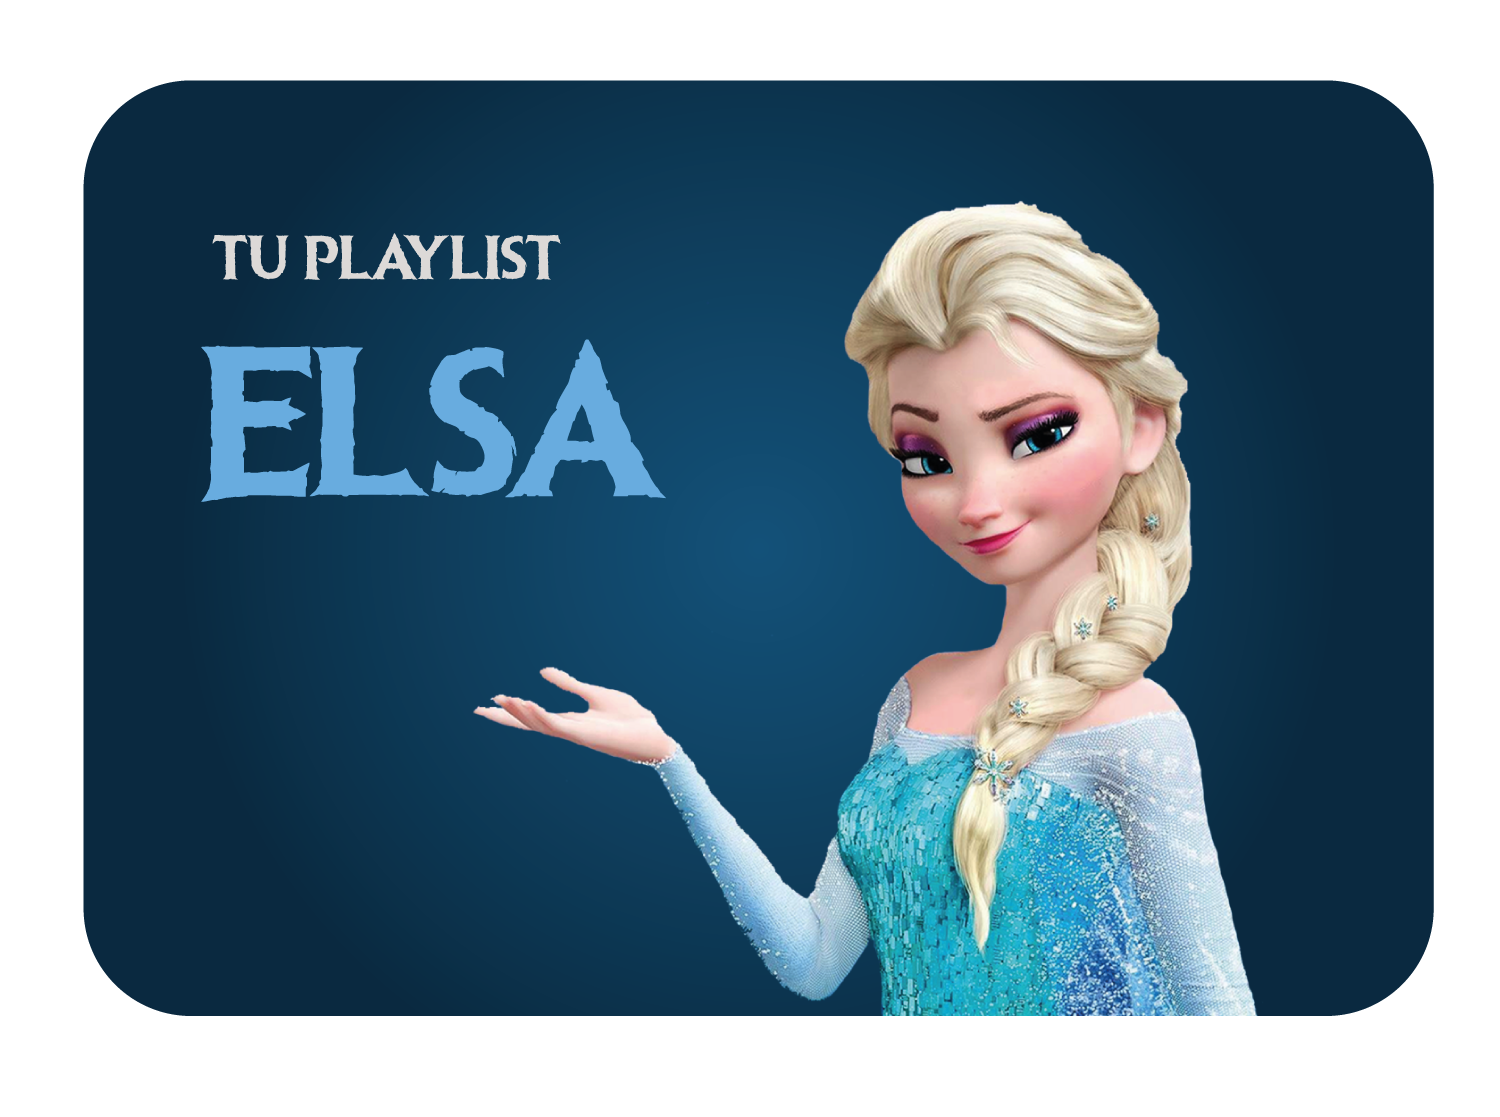
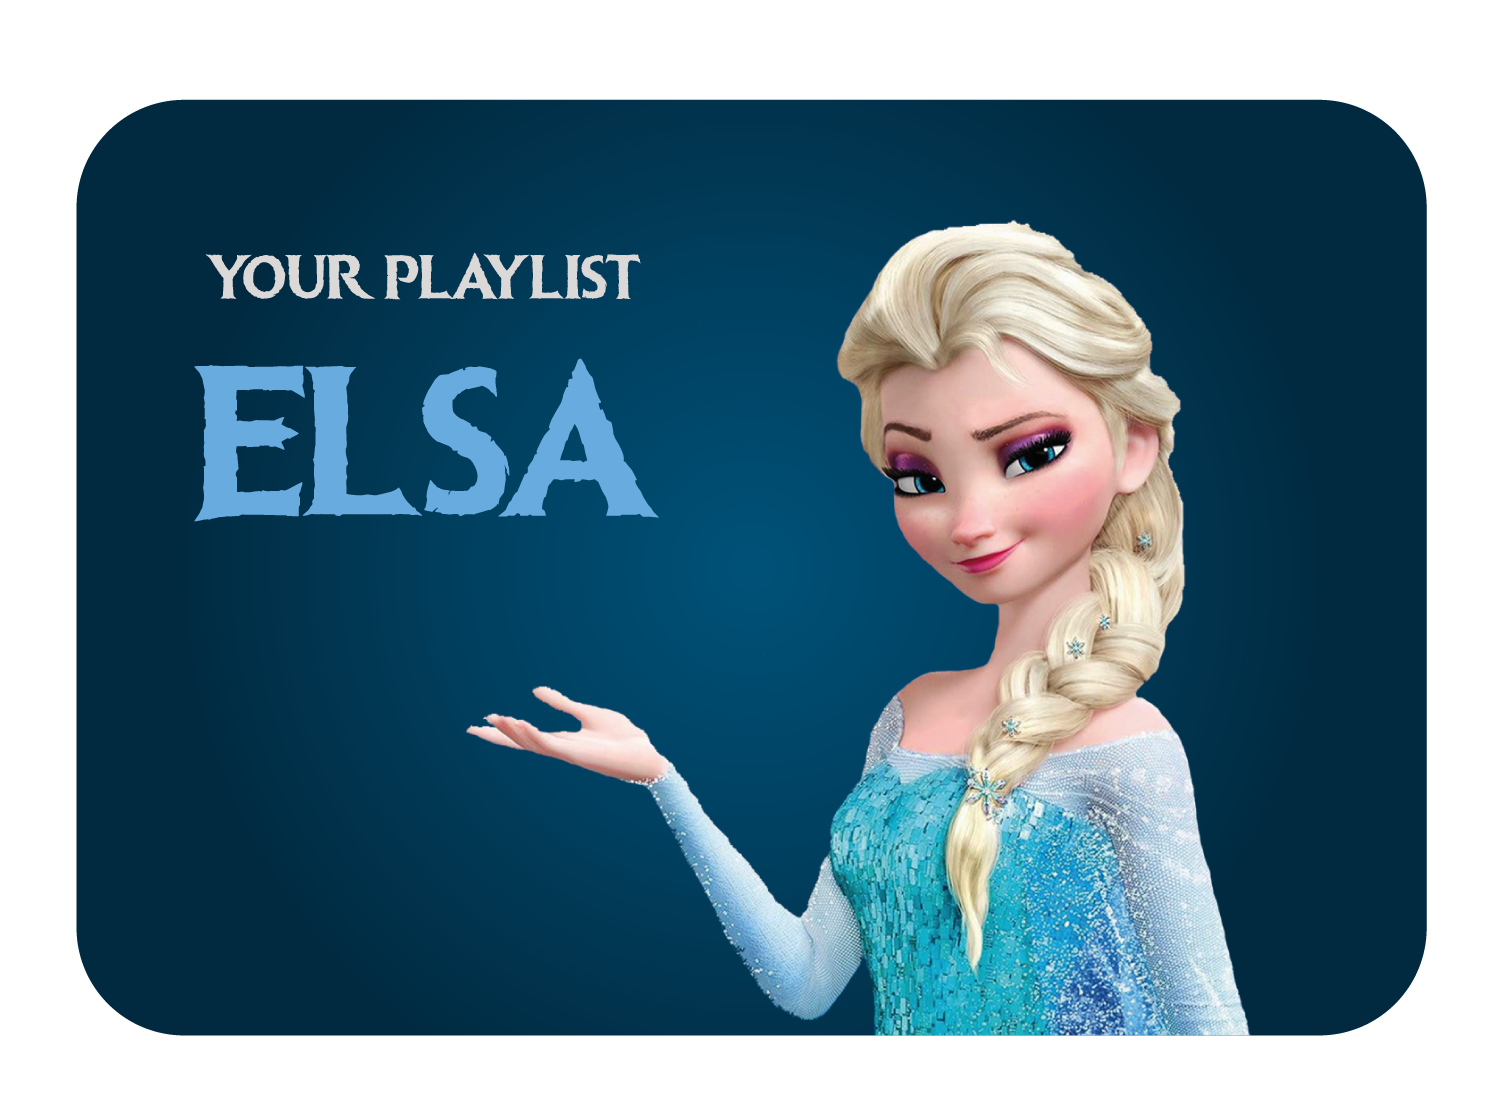
final anvances

diff --git a/style.css b/style.css
@@ -15,6 +15,8 @@ canvas {
 }
 
 .botonInicio{
+  font-size: 550;
+  font-family:Cambria, Cochin, Georgia, Times, 'Times New Roman', serif;
   background-color:rgb(129, 199, 241) ;
   border:none;
   padding: 20px;
@@ -51,10 +53,14 @@ canvas {
   top: 120px;
 }
 
+.Recuadros:hover{
+  cursor: pointer;
+}
 
 
 .botonRegresar{
-  font-size: 250;
+  font-size: 550;
+  font-family:Cambria, Cochin, Georgia, Times, 'Times New Roman', serif;
   background-color:rgb(21, 149, 189) ;
   box-shadow: 0 8px 16px 0 rgba(4, 27, 49, 0.2), 0 6px 20px 0 rgba(9, 70, 128, 0.2);
   border:none;
@@ -123,14 +129,28 @@ canvas {
 }
 
 #cargarCancion{
-  font-size: 250;
+  font-size: small;
+  font-family:Cambria, Cochin, Georgia, Times, 'Times New Roman', serif;
   background-color:rgb(21, 149, 189) ;
   box-shadow: 0 8px 16px 0 rgba(4, 27, 49, 0.2), 0 6px 20px 0 rgba(9, 70, 128, 0.2);
   border:none;
   border-radius: 8px;
   padding: 20px;
   position:absolute;
-  width: 100px;
+  width: 80px;
   right: 45%;
   top: 20px;
+  
+}
+
+#cargarCancion:hover{
+  background-color: rgb(2, 0, 71);
+  color: white;
+  cursor: pointer;
+}
+
+#audioButton:hover{
+  background-color: rgb(199, 230, 255);
+  color: white;
+  cursor: pointer;
 }

diff --git a/index.html b/index.html
@@ -35,7 +35,7 @@
       <img class="imagenInicio" src="Pantalla3.jpg"/>
       <img id="recuadroPlaylist"/>
       <button id="botonRegresar" class="botonRegresar">Back</button>
-      <label id="cargarCancion" for="file-input"> Cargar Cancion</label>
+      <label id="cargarCancion" for="file-input">Upload Song</label>
       <input id="file-input" type="file" hidden/>
       <div id="contenedorBotones"></div>
 

diff --git a/sketch.js b/sketch.js
@@ -10,7 +10,7 @@ var cancionInput
 var playlists = {
   playlistA: {
     audios:["Nieve.mp3", "LaPuertaEsElAmor.mp3"], 
-    backgroundColor: "#A92883"
+    backgroundColor: "#3F2D5A"
   },
   playlistElsa: {
     audios:["LetItGo.mp3", "MuchoMásAllá.mp3", "Sueltalo.mp3"],
